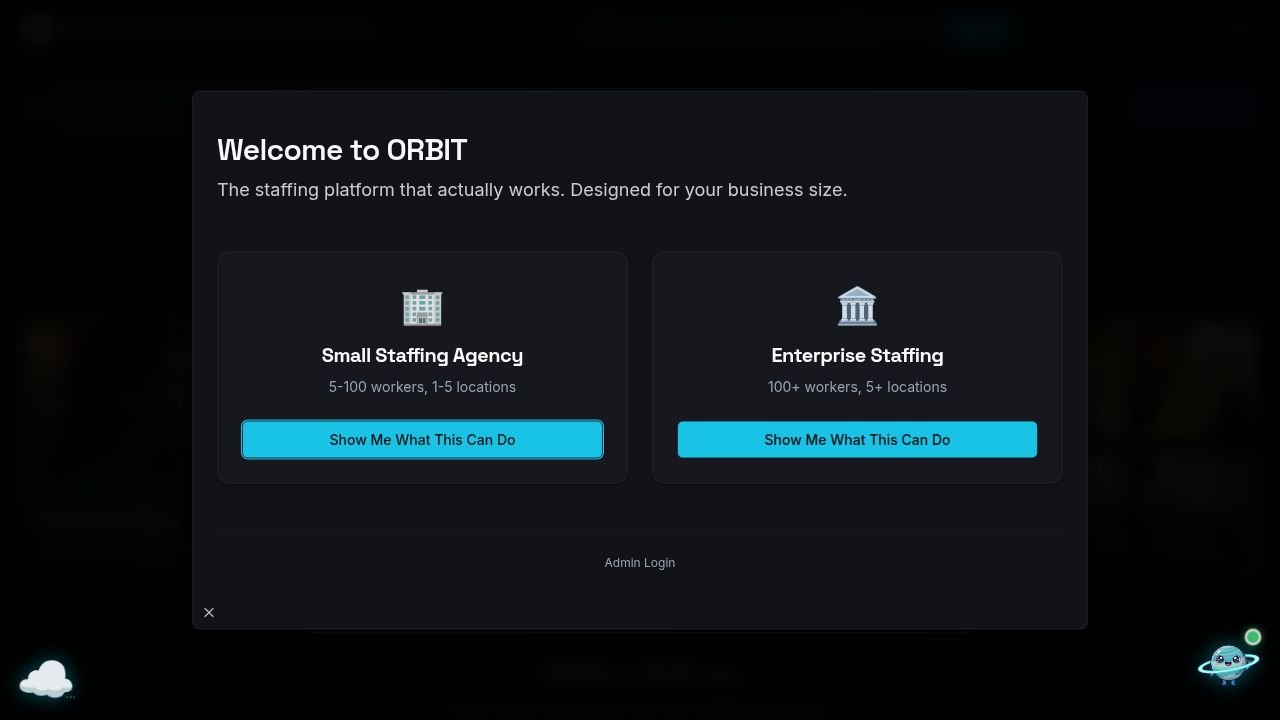
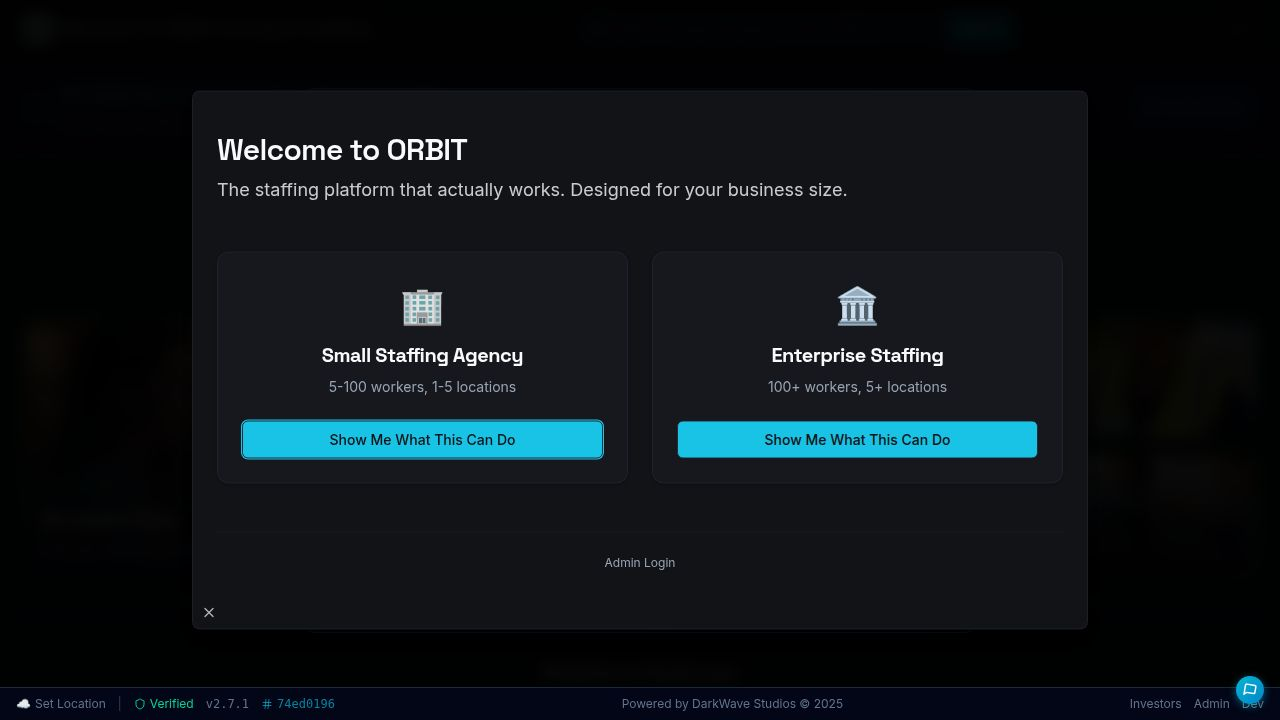
Embed weather information in a sticky footer across all pages
Removes the floating weather button and integrates a new sticky footer component containing weather data, updating App.tsx and MainFooter.tsx, and creating FooterWeatherWidget.tsx.

Replit-Commit-Author: Agent
Replit-Commit-Session-Id: df6a5f3a-5cc7-457d-a71c-08b3217d563c
Replit-Commit-Checkpoint-Type: full_checkpoint
Replit-Commit-Event-Id: 8162aa0b-e74d-401c-a745-990256786c84
Replit-Commit-Screenshot-Url: https://storage.googleapis.com/screenshot-production-us-central1/606bb700-1745-49b9-8ff5-b83937d394a3/df6a5f3a-5cc7-457d-a71c-08b3217d563c/sKKmxsa

Changed region(s): [[0.0, 0.9167, 0.2812, 1.0], [0.875, 0.8556, 1.0, 1.0], [0.4688, 0.9472, 0.6562, 1.0]]

diff --git a/client/src/components/FooterWeatherWidget.tsx b/client/src/components/FooterWeatherWidget.tsx
@@ -1,0 +1,239 @@
+import { useState, useEffect } from "react";
+import { useQuery } from "@tanstack/react-query";
+import { MapPin, RefreshCw } from "lucide-react";
+
+interface WeatherData {
+  temperature: number;
+  condition: string;
+  icon: string;
+  isDay: boolean;
+}
+
+interface GeoLocation {
+  latitude: number;
+  longitude: number;
+  name: string;
+  admin1: string;
+}
+
+const WEATHER_EMOJIS: Record<string, string> = {
+  sunny: '☀',
+  'partly-cloudy': '⛅',
+  cloudy: '☁',
+  rainy: '🌧',
+  thunderstorm: '⛈',
+  snowy: '❄',
+  foggy: '🌫',
+  night: '🌙',
+  'night-cloudy': '🌥',
+};
+
+const MOON_PHASES = ['🌑', '🌒', '🌓', '🌔', '🌕', '🌖', '🌗', '🌘'];
+
+function getMoonPhase(): string {
+  const now = new Date();
+  const year = now.getFullYear();
+  const month = now.getMonth() + 1;
+  const day = now.getDate();
+  
+  let c = 0, e = 0, jd = 0, b = 0;
+  
+  if (month < 3) {
+    c = year - 1;
+    e = month + 12;
+  } else {
+    c = year;
+    e = month;
+  }
+  
+  jd = Math.floor(365.25 * c) + Math.floor(30.6001 * (e + 1)) + day - 694039.09;
+  jd /= 29.53059;
+  b = Math.floor(jd);
+  jd -= b;
+  b = Math.round(jd * 8);
+  
+  if (b >= 8) b = 0;
+  
+  return MOON_PHASES[b];
+}
+
+function getTemperatureColor(temp: number): string {
+  if (temp <= 32) return '#3B82F6';
+  if (temp <= 50) return '#06B6D4';
+  if (temp <= 65) return '#22C55E';
+  if (temp <= 75) return '#EAB308';
+  if (temp <= 85) return '#F97316';
+  return '#EF4444';
+}
+
+export function FooterWeatherWidget() {
+  const [zipCode, setZipCode] = useState(() => {
+    if (typeof window !== 'undefined') {
+      return localStorage.getItem('orbit-weather-zip') || '';
+    }
+    return '';
+  });
+  const [showInput, setShowInput] = useState(false);
+  const [tempZip, setTempZip] = useState('');
+  const [coordinates, setCoordinates] = useState<{ lat: number; lon: number } | null>(() => {
+    if (typeof window !== 'undefined') {
+      const saved = localStorage.getItem('orbit-weather-coords');
+      if (saved) {
+        try { return JSON.parse(saved); } catch { return null; }
+      }
+    }
+    return null;
+  });
+  const [locationName, setLocationName] = useState(() => {
+    if (typeof window !== 'undefined') {
+      return localStorage.getItem('orbit-weather-location') || '';
+    }
+    return '';
+  });
+
+  const { data: geoData } = useQuery<GeoLocation>({
+    queryKey: ['/api/weather/geocode', zipCode],
+    queryFn: async () => {
+      if (!zipCode || zipCode.length !== 5) return null;
+      const response = await fetch(`/api/weather/geocode/${zipCode}`);
+      if (!response.ok) throw new Error('Failed to geocode');
+      return response.json();
+    },
+    enabled: !!zipCode && zipCode.length === 5,
+    staleTime: 1000 * 60 * 60 * 24,
+  });
+
+  useEffect(() => {
+    if (geoData) {
+      setCoordinates({ lat: geoData.latitude, lon: geoData.longitude });
+      setLocationName(`${geoData.name}, ${geoData.admin1}`);
+      localStorage.setItem('orbit-weather-coords', JSON.stringify({ lat: geoData.latitude, lon: geoData.longitude }));
+      localStorage.setItem('orbit-weather-location', `${geoData.name}, ${geoData.admin1}`);
+    }
+  }, [geoData]);
+
+  const { data: weatherData, isLoading, refetch } = useQuery<WeatherData>({
+    queryKey: ['/api/weather', coordinates?.lat, coordinates?.lon],
+    queryFn: async () => {
+      if (!coordinates) return null;
+      const response = await fetch(`/api/weather?lat=${coordinates.lat}&lon=${coordinates.lon}`);
+      if (!response.ok) throw new Error('Failed to fetch weather');
+      return response.json();
+    },
+    enabled: !!coordinates,
+    staleTime: 1000 * 60 * 10,
+    refetchInterval: 1000 * 60 * 30,
+  });
+
+  const handleZipSubmit = (e: React.FormEvent) => {
+    e.preventDefault();
+    if (tempZip.length === 5 && /^\d{5}$/.test(tempZip)) {
+      setZipCode(tempZip);
+      localStorage.setItem('orbit-weather-zip', tempZip);
+      setShowInput(false);
+      setTempZip('');
+    }
+  };
+
+  if (!zipCode) {
+    return (
+      <div className="flex items-center gap-2">
+        {showInput ? (
+          <form onSubmit={handleZipSubmit} className="flex items-center gap-1">
+            <input
+              type="text"
+              value={tempZip}
+              onChange={(e) => setTempZip(e.target.value.replace(/\D/g, '').slice(0, 5))}
+              placeholder="ZIP"
+              className="w-16 px-2 py-1 text-xs bg-slate-800 border border-slate-700 rounded text-white text-center"
+              autoFocus
+              data-testid="input-footer-zip"
+            />
+            <button 
+              type="submit" 
+              className="text-xs text-cyan-400 hover:text-cyan-300"
+              disabled={tempZip.length !== 5}
+            >
+              Set
+            </button>
+            <button 
+              type="button"
+              onClick={() => setShowInput(false)}
+              className="text-xs text-slate-500 hover:text-slate-400"
+            >
+              ✕
+            </button>
+          </form>
+        ) : (
+          <button
+            onClick={() => setShowInput(true)}
+            className="flex items-center gap-1 text-slate-500 hover:text-cyan-400 transition text-xs"
+            data-testid="button-footer-weather-setup"
+          >
+            <span>☁</span>
+            <span>Set Location</span>
+          </button>
+        )}
+      </div>
+    );
+  }
+
+  const iconType = weatherData?.icon || 'cloudy';
+  const emoji = iconType === 'night' || iconType === 'night-cloudy' 
+    ? getMoonPhase() 
+    : (WEATHER_EMOJIS[iconType] || '☁');
+  const tempColor = weatherData ? getTemperatureColor(weatherData.temperature) : '#94a3b8';
+
+  return (
+    <div className="flex items-center gap-2 text-xs">
+      {weatherData ? (
+        <>
+          <span className="text-base" title={weatherData.condition}>{emoji}</span>
+          <span 
+            className="font-bold"
+            style={{ color: tempColor }}
+          >
+            {weatherData.temperature}°F
+          </span>
+          <span className="text-slate-500 hidden sm:inline">
+            {locationName.split(',')[0]}
+          </span>
+        </>
+      ) : isLoading ? (
+        <span className="text-slate-500">Loading...</span>
+      ) : (
+        <span className="text-slate-500">--°F</span>
+      )}
+      <button
+        onClick={() => refetch()}
+        className="text-slate-500 hover:text-cyan-400 transition p-0.5"
+        title="Refresh weather"
+        data-testid="button-footer-weather-refresh"
+      >
+        <RefreshCw className={`w-3 h-3 ${isLoading ? 'animate-spin' : ''}`} />
+      </button>
+      <button
+        onClick={() => setShowInput(true)}
+        className="text-slate-500 hover:text-cyan-400 transition p-0.5"
+        title="Change location"
+        data-testid="button-footer-weather-change"
+      >
+        <MapPin className="w-3 h-3" />
+      </button>
+      {showInput && (
+        <form onSubmit={handleZipSubmit} className="flex items-center gap-1 ml-1">
+          <input
+            type="text"
+            value={tempZip}
+            onChange={(e) => setTempZip(e.target.value.replace(/\D/g, '').slice(0, 5))}
+            placeholder="ZIP"
+            className="w-14 px-1 py-0.5 text-xs bg-slate-800 border border-slate-700 rounded text-white text-center"
+            autoFocus
+          />
+          <button type="submit" className="text-cyan-400 text-xs" disabled={tempZip.length !== 5}>✓</button>
+          <button type="button" onClick={() => setShowInput(false)} className="text-slate-500 text-xs">✕</button>
+        </form>
+      )}
+    </div>
+  );
+}

diff --git a/client/src/components/MainFooter.tsx b/client/src/components/MainFooter.tsx
@@ -1,6 +1,7 @@
 import { useState, useEffect } from 'react';
 import { Link } from 'wouter';
 import { Shield, Hash } from 'lucide-react';
+import { FooterWeatherWidget } from './FooterWeatherWidget';
 
 interface VersionInfo {
   version: string;
@@ -31,33 +32,39 @@ export function MainFooter() {
   const shortHash = versionInfo.solanaHash ? versionInfo.solanaHash.substring(0, 8) : null;
 
   return (
-    <footer className="w-full bg-slate-950 border-t border-slate-800 py-4 px-4 shrink-0">
-      <div className="max-w-7xl mx-auto flex flex-col sm:flex-row items-center justify-between gap-3 text-xs">
-        <div className="flex items-center gap-4">
+    <footer 
+      className="w-full bg-slate-950/95 backdrop-blur-sm border-t border-slate-800 py-2 px-4 shrink-0"
+      style={{
+        position: 'sticky',
+        bottom: 0,
+        zIndex: 999
+      }}
+      data-testid="main-footer"
+    >
+      <div className="max-w-7xl mx-auto flex flex-col sm:flex-row items-center justify-between gap-2 text-xs">
+        <div className="flex items-center gap-3 flex-wrap justify-center sm:justify-start">
+          <FooterWeatherWidget />
+          <span className="text-slate-700 hidden sm:inline">|</span>
           <Link href="/solana-verification">
-            <div className="flex items-center gap-1.5 text-emerald-400 hover:text-emerald-300 transition cursor-pointer" data-testid="link-footer-verified">
-              <Shield className="w-3.5 h-3.5" />
-              <span>Solana Verified</span>
+            <div className="flex items-center gap-1 text-emerald-400 hover:text-emerald-300 transition cursor-pointer" data-testid="link-footer-verified">
+              <Shield className="w-3 h-3" />
+              <span className="hidden sm:inline">Verified</span>
             </div>
           </Link>
-          <span className="text-slate-600 hidden sm:inline">•</span>
           <span className="text-slate-500 font-mono">v{versionInfo.version}</span>
           {shortHash && (
-            <>
-              <span className="text-slate-600 hidden sm:inline">•</span>
-              <div className="flex items-center gap-1 text-cyan-500/70 font-mono" title={`Full hash: ${versionInfo.solanaHash}`}>
-                <Hash className="w-3 h-3" />
-                <span>{shortHash}</span>
-              </div>
-            </>
+            <div className="flex items-center gap-1 text-cyan-500/70 font-mono hidden md:flex" title={`Full hash: ${versionInfo.solanaHash}`}>
+              <Hash className="w-3 h-3" />
+              <span>{shortHash}</span>
+            </div>
           )}
         </div>
         
-        <p className="text-slate-400 text-center">
-          Powered by DarkWave Studios, LLC © 2025
+        <p className="text-slate-500 text-center text-[10px] sm:text-xs hidden md:block">
+          Powered by DarkWave Studios © 2025
         </p>
         
-        <div className="flex items-center gap-4 text-slate-500">
+        <div className="flex items-center gap-3 text-slate-500">
           <Link href="/investors">
             <span className="hover:text-cyan-400 transition cursor-pointer" data-testid="link-footer-investors">Investors</span>
           </Link>
@@ -65,7 +72,7 @@ export function MainFooter() {
             <span className="hover:text-cyan-400 transition cursor-pointer" data-testid="link-footer-admin">Admin</span>
           </Link>
           <Link href="/developer">
-            <span className="hover:text-cyan-400 transition cursor-pointer" data-testid="link-footer-dev">Developer</span>
+            <span className="hover:text-cyan-400 transition cursor-pointer" data-testid="link-footer-dev">Dev</span>
           </Link>
         </div>
       </div>

diff --git a/client/src/App.tsx b/client/src/App.tsx
@@ -92,8 +92,8 @@ import Sales from "@/pages/Sales";
 import WorkersCompAdmin from "@/pages/WorkersCompAdmin";
 import { TutorialProvider } from "@/components/PageTutorial";
 import { FloatingHomeButton } from "@/components/FloatingHomeButton";
-import { FloatingWeatherButton } from "@/components/FloatingWeatherButton";
 import { WeatherRadarModal } from "@/components/WeatherRadarModal";
+import { MainFooter } from "@/components/MainFooter";
 import { OrbitExperienceProvider } from "@/components/OrbitExperience";
 import { OrbitChatAssistant } from "@/components/OrbitChatAssistant";
 import { ModeProvider } from "@/contexts/ModeContext";
@@ -288,15 +288,15 @@ function ConditionalHomeButton() {
   return <FloatingHomeButton />;
 }
 
-function ConditionalWeatherButton({ onOpenRadar }: { onOpenRadar: () => void }) {
+function ConditionalMainFooter() {
   const [location] = useLocation();
-  const hiddenPages = ['/pricing', '/products', '/studio'];
+  const hiddenPages = ['/slideshow'];
   
   if (hiddenPages.some(page => location.startsWith(page))) {
     return null;
   }
   
-  return <FloatingWeatherButton onOpenRadar={onOpenRadar} />;
+  return <MainFooter />;
 }
 
 export default function App() {
@@ -313,8 +313,8 @@ export default function App() {
               <SandboxWelcome />
               <div className="sandbox-banner-spacer" />
               <Router />
+              <ConditionalMainFooter />
               <ConditionalHomeButton />
-              <ConditionalWeatherButton onOpenRadar={() => setIsRadarOpen(true)} />
               <WeatherRadarModal isOpen={isRadarOpen} onClose={() => setIsRadarOpen(false)} />
               <ConditionalOrbitAssistant />
               <Toaster />
